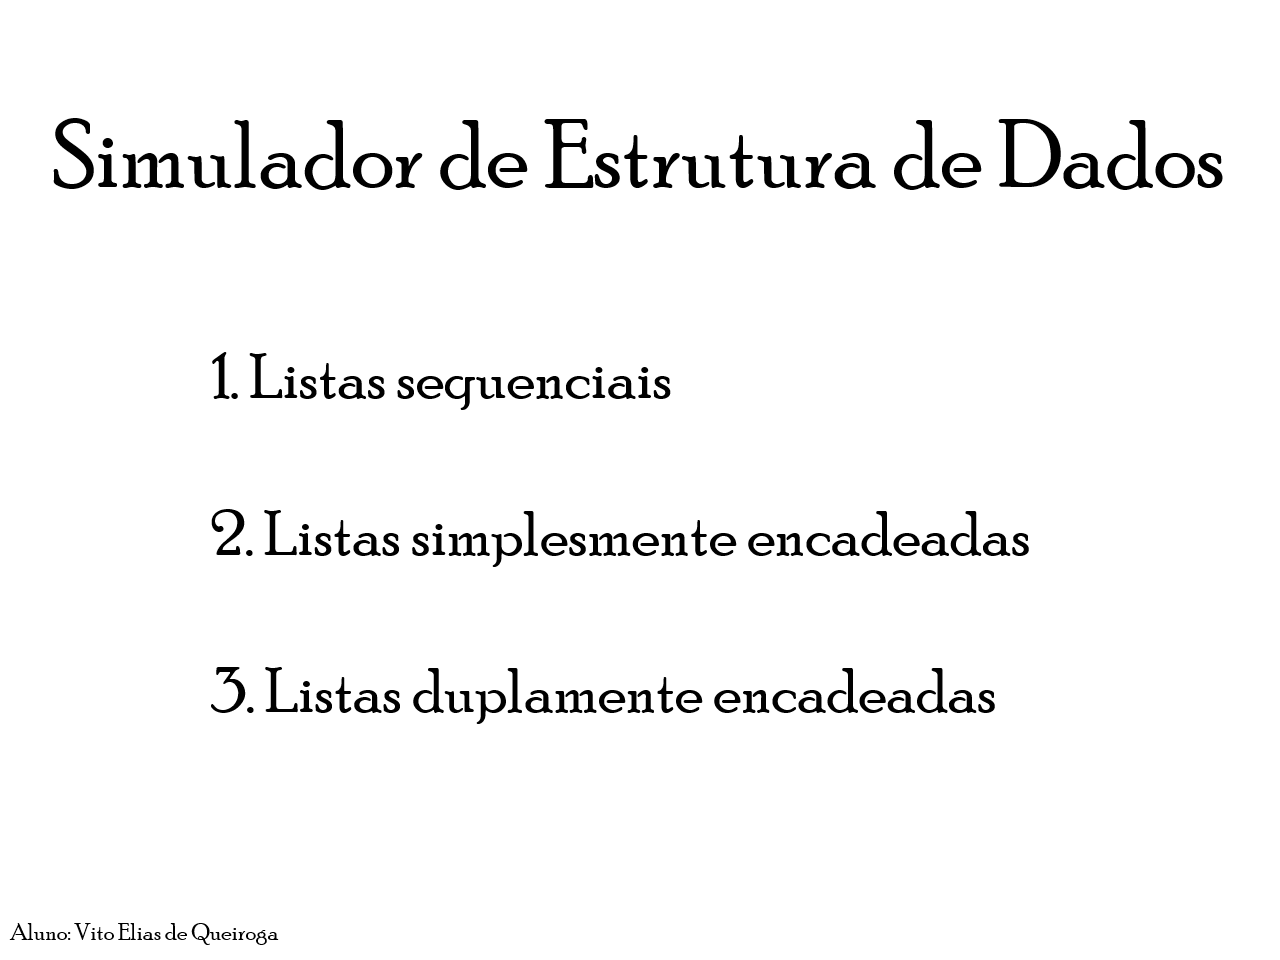
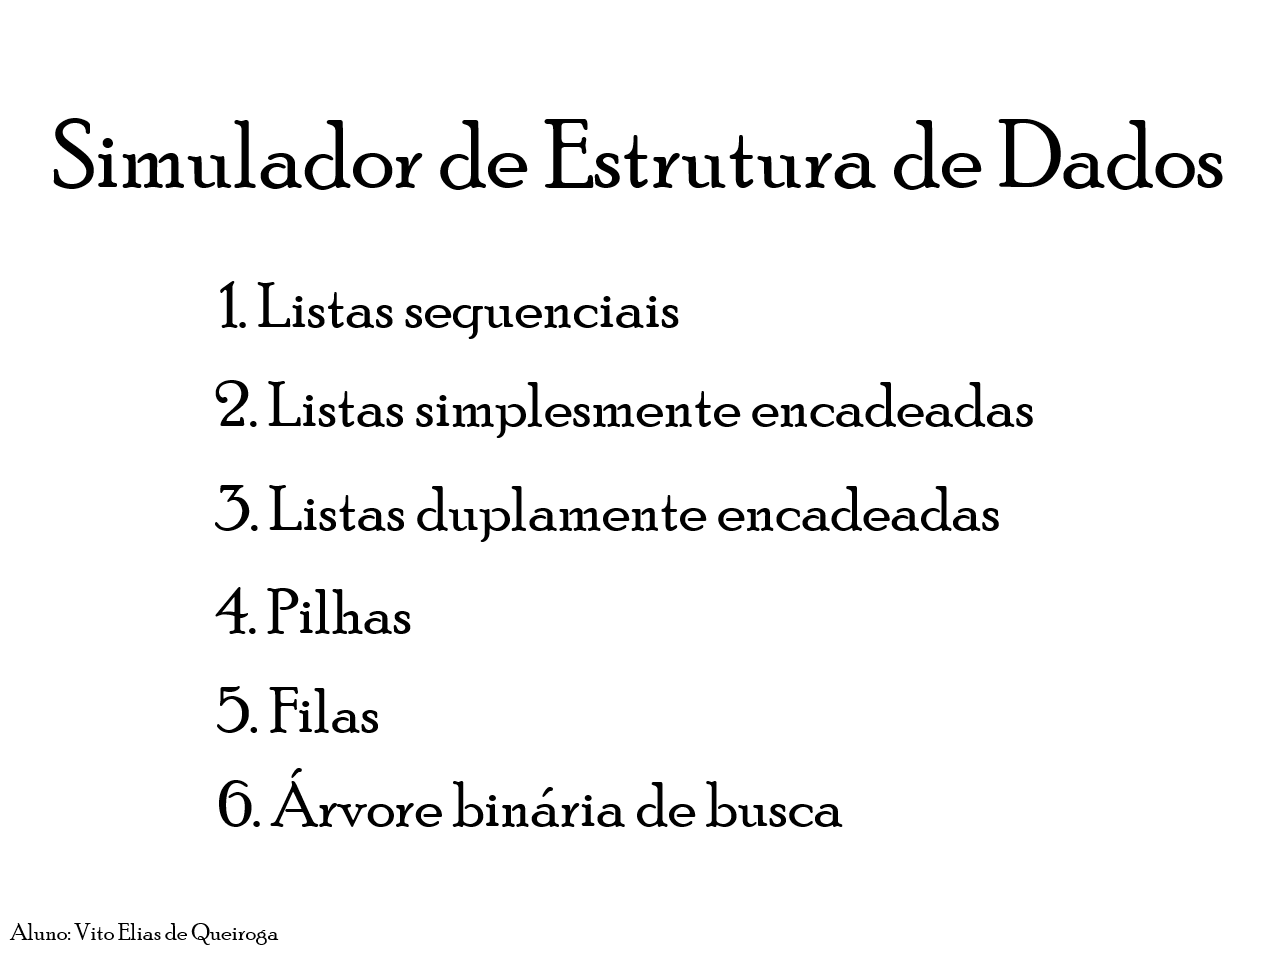
arvore binaria start

diff --git a/SimulacaoVisualED.py b/SimulacaoVisualED.py
@@ -1657,14 +1657,19 @@ while True:
                     offsetx = -240*(listaS.tamanho()-5)
                 elif pagina == 3:
                     offsetx = -240*(listade.tamanho()-5)
-        if event.type == MOUSEBUTTONDOWN and 205 <= mouse[0] <= 680 and 340 <= mouse[1] <= 415 and pagina == 0: #BOTAO PAGINA 1
+        if event.type == MOUSEBUTTONDOWN:
+            print("X: ", mouse[0])
+            print("Y: ", mouse[1])
+        if event.type == MOUSEBUTTONDOWN and 210 <= mouse[0] <= 685 and 270 <= mouse[1] <= 345 and pagina == 0: #BOTAO PAGINA 1
             pagina = 1
-        if event.type == MOUSEBUTTONDOWN and 205 <= mouse[0] <= 1040 and 495 <= mouse[1] <= 570 and pagina == 0: #BOTAO PAGINA 2
+        if event.type == MOUSEBUTTONDOWN and 210 <= mouse[0] <= 1045 and 365 <= mouse[1] <= 440 and pagina == 0: #BOTAO PAGINA 2
             pagina = 2
             offsetx = 0
-        if event.type == MOUSEBUTTONDOWN and 205 <= mouse[0] <= 1005 and 655 <= mouse[1] <= 730 and pagina == 0: #BOTAO PAGINA 3
+        if event.type == MOUSEBUTTONDOWN and 210 <= mouse[0] <= 1010 and 470 <= mouse[1] <= 545 and pagina == 0: #BOTAO PAGINA 3
             pagina = 3
             offsetx = 0
+        if event.type == MOUSEBUTTONDOWN and 210 <= mouse[0] <= 850 and 765 <= mouse[1] <= 840 and pagina == 0: #BOTAO PAGINA 6
+            pagina = 6
         if event.type == MOUSEBUTTONDOWN and 20 <= mouse[0] <= 110 and 20 <= mouse[1] <= 105 and (pagina == 1 or pagina == 2 or pagina == 3): #BOTAO VOLTAR MENU
             pagina = 0
         if event.type == MOUSEBUTTONDOWN and 186 <= mouse[0] <= 269 and 416 <= mouse[1] <= 446 and pagina == 1: #INSERIR PAGINA 1
@@ -1876,27 +1881,33 @@ while True:
     if pagina == 0: #MENU
         tela.blit(tela0, (0, 0))
 
-        if 205 <= mouse[0] <= 680 and 340 <= mouse[1] <= 415:
+        if 210 <= mouse[0] <= 685 and 270 <= mouse[1] <= 345:
             color1 = "black"
-
         else:
             color1 = "white"
 
-        if 205 <= mouse[0] <= 1040 and 495 <= mouse[1] <= 570:
+        if 210 <= mouse[0] <= 1045 and 365 <= mouse[1] <= 440:
             color2 = "black"
         else:
             color2 = "white"
 
-        if 205 <= mouse[0] <= 1005 and 655 <= mouse[1] <= 730:
+        if 210 <= mouse[0] <= 1010 and 470 <= mouse[1] <= 545:
             color3 = "black"
         else:
             color3 = "white"
 
-        pygame.draw.rect(tela, color1, (205, 340, 475, 75), 2)
+        if 210 <= mouse[0] <= 850 and 765 <= mouse[1] <= 840:
+            color4 = "black"
+        else:
+            color4 = "white"
 
-        pygame.draw.rect(tela, color2, (205, 495, 835, 75), 2)
+        pygame.draw.rect(tela, color1, (210, 270, 475, 75), 2)
 
-        pygame.draw.rect(tela, color3, (205, 655, 800, 75), 2)
+        pygame.draw.rect(tela, color2, (210, 365, 835, 75), 2)
+
+        pygame.draw.rect(tela, color3, (210, 470, 800, 75), 2)
+
+        pygame.draw.rect(tela, color4, (210, 765, 640, 75), 2)
 
     elif pagina == 1: #LISTAS SEQUENCIAIS
         tela.blit(tela1, (0, 0))
